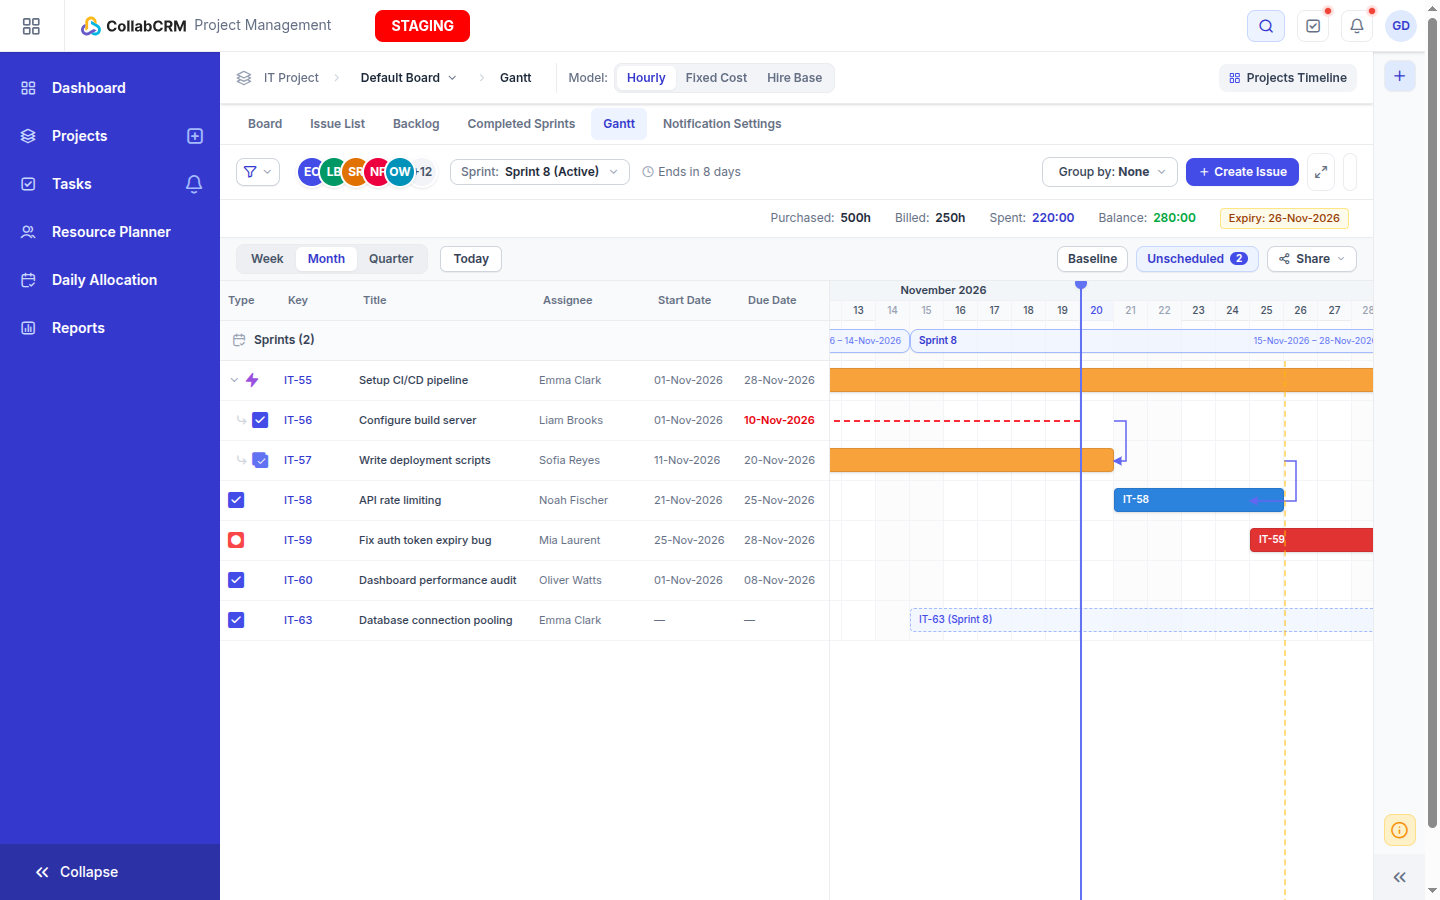
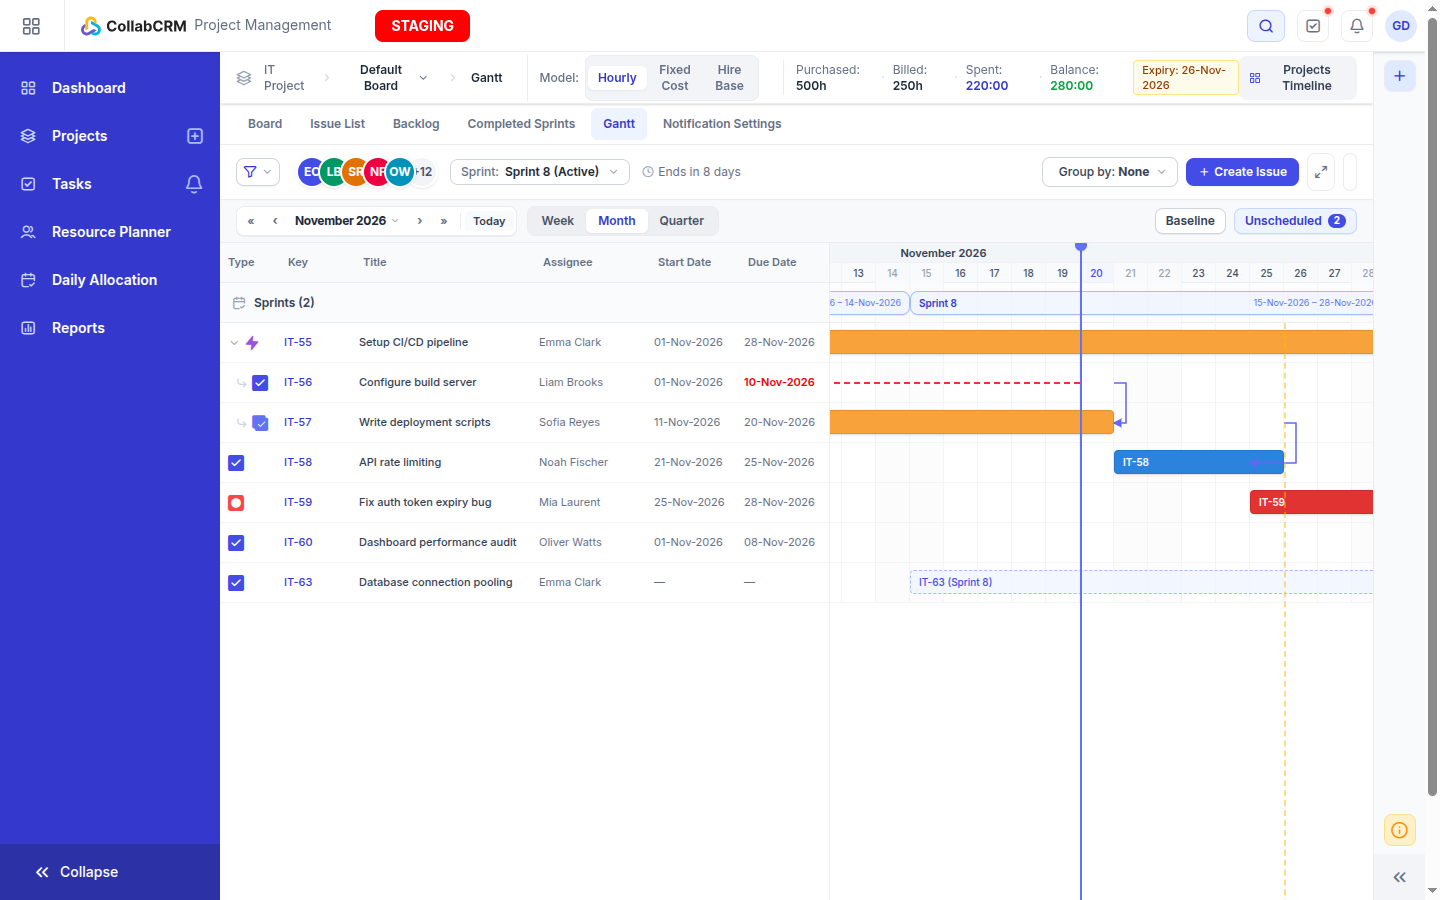
feat: shift project hours KPI pills to top header bar (Option A)

diff --git a/src/pages/GanttBoard.jsx b/src/pages/GanttBoard.jsx
@@ -1733,6 +1733,45 @@ export default function GanttBoard() {
                   ))}
                 </div>
               </div>
+
+              {/* Compact Project Hours / Contract KPI Pills (Option A) */}
+              <div className="flex items-center gap-2.5 ml-3 pl-3 border-l border-gray-200 text-xs">
+                {projectModel === 'Fixed Cost' && (
+                  <div className="flex items-center gap-2 text-xs">
+                    <span className="text-gray-500">Estimated: <strong className="text-gray-800 font-semibold">500h</strong></span>
+                    <span className="text-gray-300">·</span>
+                    <span className="text-gray-500">Top-Up: <strong className="text-gray-800 font-semibold">50h</strong></span>
+                    <span className="text-gray-300">·</span>
+                    <span className="text-gray-500">Total: <strong className="text-indigo-700 font-semibold">550h</strong></span>
+                    <span className="text-gray-300">·</span>
+                    <span className="text-gray-500">Spent: <strong className="text-gray-800 font-semibold">210:00</strong></span>
+                  </div>
+                )}
+                {projectModel === 'Hourly' && (
+                  <div className="flex items-center gap-2 text-xs">
+                    <span className="text-gray-500">Purchased: <strong className="text-gray-800 font-semibold">500h</strong></span>
+                    <span className="text-gray-300">·</span>
+                    <span className="text-gray-500">Billed: <strong className="text-gray-800 font-semibold">250h</strong></span>
+                    <span className="text-gray-300">·</span>
+                    <span className="text-gray-500">Spent: <strong className="text-indigo-700 font-semibold">220:00</strong></span>
+                    <span className="text-gray-300">·</span>
+                    <span className="text-gray-500">Balance: <strong className="text-green-600 font-semibold">280:00</strong></span>
+                    <span className="inline-flex items-center px-2 py-0.5 rounded bg-amber-50 border border-amber-200 text-amber-800 text-[11px] font-medium">
+                      Expiry: 26-Nov-2026
+                    </span>
+                  </div>
+                )}
+                {projectModel === 'Hire Base' && (
+                  <div className="flex items-center gap-2 text-xs">
+                    <span className="text-gray-500">Contract Start: <strong className="text-gray-800 font-semibold">01-Nov-2026</strong></span>
+                    <span className="text-gray-300">·</span>
+                    <span className="text-gray-500">Contract End: <strong className="text-gray-800 font-semibold">28-Nov-2026</strong></span>
+                    <span className="inline-flex items-center px-2 py-0.5 rounded bg-indigo-50 border border-indigo-200 text-indigo-700 text-[11px] font-semibold">
+                      Remaining: 8 days
+                    </span>
+                  </div>
+                )}
+              </div>
             </div>
 
             <div className="flex items-center gap-2">
@@ -1939,19 +1978,7 @@ export default function GanttBoard() {
         </div>
       ) : (
         /* Gantt View */
-        <div className="flex flex-col h-[calc(100vh-60px-40px-40px)] overflow-hidden select-none">
-
-          {/* ── Project Hours KPI Strip (Story 3 & Story 7) ── */}
-          <ProjectHoursStrip
-            model={projectModel}
-            onOpenResourcePlanner={() => {
-              setUnscheduledOpen(false)
-              setPanel(null)
-              setCreateModalOpen(false)
-              setCompanyGanttOpen(false)
-              setResourcePlannerOpen(true)
-            }}
-          />
+        <div className="flex flex-col h-[calc(100vh-60px-40px)] overflow-hidden select-none">
 
           {/* Mobile indicator strip (Story 9) */}
           {isMobileView && (
